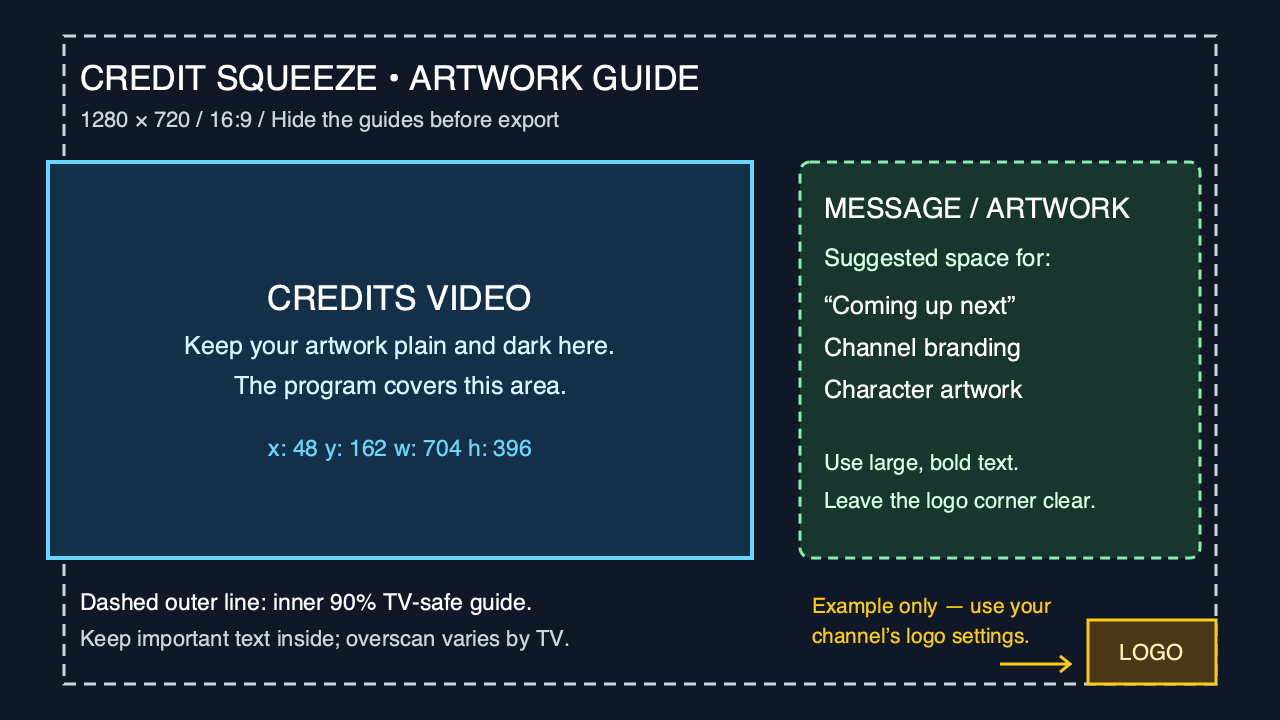
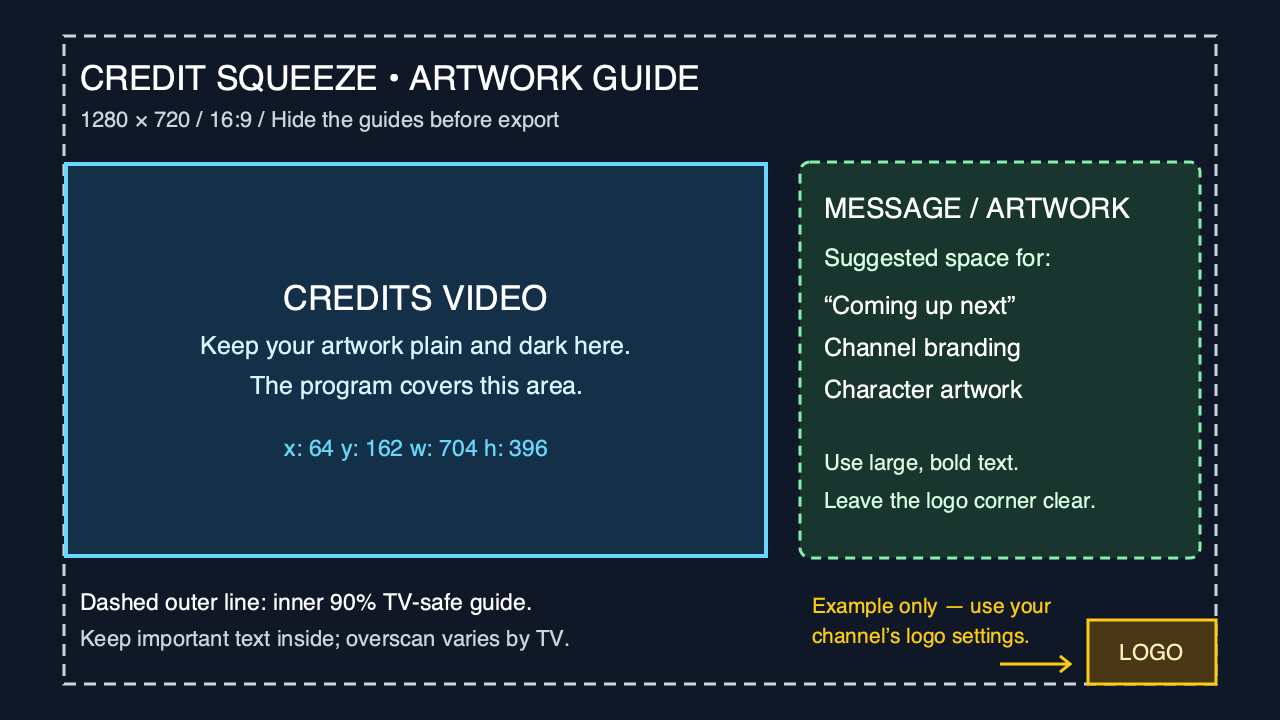
docs: align credits template with the TV-safe inset

diff --git a/docs/fork/credit-squeeze-artwork.md b/docs/fork/credit-squeeze-artwork.md
@@ -22,14 +22,14 @@ Coordinates start at the top-left corner. Width and height describe the area; ri
 
 | Area | Left (x) | Top (y) | Width | Height | Meaning |
 | --- | ---: | ---: | ---: | ---: | --- |
-| Credits video | 48 | 162 | 704 | 396 | Fixed stage 1 layout; the program covers this area. |
+| Credits video | 64 | 162 | 704 | 396 | Fixed stage 1 layout; the program covers this area. |
 | Suggested message space | 800 | 162 | 400 | 396 | Editing advice only; other space outside the credits can also hold artwork. |
 | TV-safe boundary | 64 | 36 | 1152 | 648 | Inner 90% guide for important text. |
 | Example bottom-right logo | 1088 | 620 | 128 | 64 | A 2:1 logo at 10% canvas width, with 5% horizontal/vertical margins. |
 
-The credits rectangle uses 3.75% left, 22.5% top, and 55% of the canvas width and height. For a 1920×1080 background, multiply these coordinates and dimensions by 1.5. The logo example scales the same way only if its settings and 2:1 aspect ratio match. A different logo shape, corner, size or margin needs a different reserved box.
+The credits rectangle uses 5% left, 22.5% top, and 55% of the canvas width and height. For a 1920×1080 background, multiply these coordinates and dimensions by 1.5. The logo example scales the same way only if its settings and 2:1 aspect ratio match. A different logo shape, corner, size or margin needs a different reserved box.
 
-The TV-safe boundary guides text placement; it does not move the credits rectangle. The credits start slightly outside that boundary on the left.
+The credits rectangle starts on the left TV-safe boundary and fits entirely inside it. The boundary is a layout guide, not a guarantee against every TV’s overscan.
 
 ## Planned stage 1.5: a template for your channel
 
